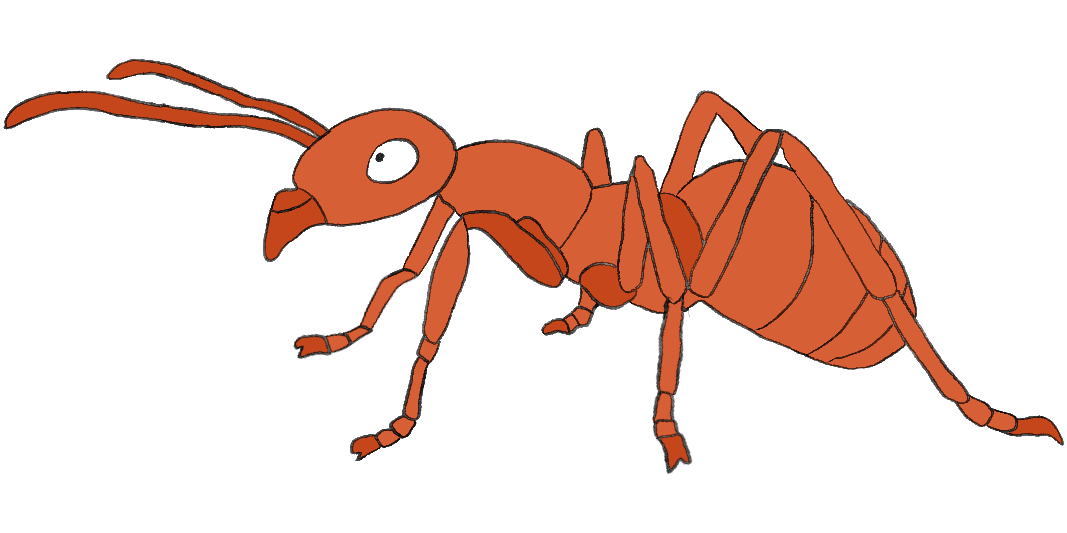
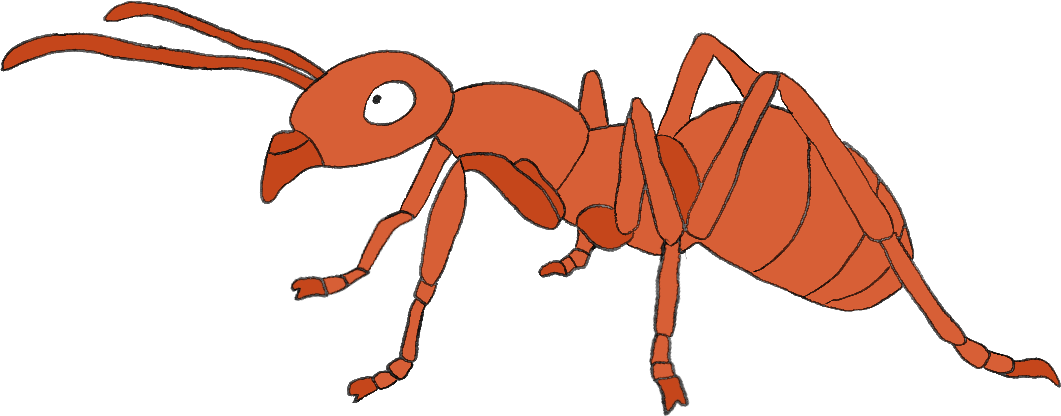
Fixing player assets and refining Macroquad usage - work in progress, does not compile yet.

Changed region(s): [[0.0, 0.0, 1.0, 1.0]]

diff --git a/src/player.rs b/src/player.rs
@@ -1,5 +1,6 @@
 use crate::cell::Cell;
 use macroquad::prelude::*;
+use quadgif::GifAnimation;
 
 #[derive(PartialEq)]
 enum Dir {
@@ -15,12 +16,14 @@ pub struct Player<const COLS: usize, const ROWS: usize> {
     vel: Vec2,
     acc_y: f32,
     jump: f32,
+    jumped: bool,
     player_speed: f32,
+    climb_speed: f32,
     cells: [[Cell; COLS]; ROWS],
     cell_size: f32,
     is_on_floor: bool,
-    jump_count: i32,
     direction: Dir,
+    climbing: bool,
 }
 
 impl<const COLS: usize, const ROWS: usize> Player<COLS, ROWS> {
@@ -38,25 +41,20 @@ impl<const COLS: usize, const ROWS: usize> Player<COLS, ROWS> {
             size: vec2(width, height),
             vel: vec2(0.0, 0.0),
             acc_y: gravity,
-            jump: 2.0,
+            jump: 0.9,
+            jumped: false,
             player_speed: 0.8,
+            climb_speed: 0.8,
             cells: cells,
             cell_size: cell_size,
             is_on_floor: false,
-            jump_count: 0,
             direction: Dir::Left,
+            climbing: false,
         }
     }
 
     pub fn update(&mut self) {
-        if (is_key_pressed(KeyCode::Space)
-            || is_key_pressed(KeyCode::W)
-            || is_key_pressed(KeyCode::Up))
-            && self.jump_count < 2
-        {
-            self.vel.y -= self.jump;
-            self.jump_count += 1;
-        }
+        self.climbing = false;
 
         self.vel.x = 0.0;
 
@@ -69,6 +67,7 @@ impl<const COLS: usize, const ROWS: usize> Player<COLS, ROWS> {
 
             self.direction = Dir::Left;
         }
+
         if is_key_down(KeyCode::D) || is_key_down(KeyCode::Right) {
             self.vel.x += self.player_speed;
             right_pressed = true;
@@ -88,18 +87,40 @@ impl<const COLS: usize, const ROWS: usize> Player<COLS, ROWS> {
             if self.vel.x > 0.0 {
                 self.pos.x = x - self.size.x;
 
-                // If right is pressed and the player is falling
                 if right_pressed && self.vel.y > 0.0 {
                     self.vel.y = 0.0;
+                }
+
+                if right_pressed {
+                    self.climbing = true;
                 }
             } else {
                 self.pos.x = x + width;
 
-                // If right is pressed and the player is falling
                 if left_pressed && self.vel.y > 0.0 {
                     self.vel.y = 0.0;
                 }
+
+                if left_pressed {
+                    self.climbing = true;
+                }
             }
+        }
+
+        if (is_key_pressed(KeyCode::Space)
+            || is_key_pressed(KeyCode::W)
+            || is_key_pressed(KeyCode::Up))
+            && !self.jumped
+        {
+            self.vel.y -= self.jump;
+            self.jumped = true;
+        }
+
+        if self.climbing
+            && (is_key_down(KeyCode::Space) || is_key_down(KeyCode::W) || is_key_down(KeyCode::Up))
+        {
+            self.direction = Dir::Up;
+            self.vel.y = -self.climb_speed;
         }
 
         self.vel.y += self.acc_y;
@@ -111,7 +132,7 @@ impl<const COLS: usize, const ROWS: usize> Player<COLS, ROWS> {
             if self.vel.y > 0.0 {
                 self.pos.y = y - self.size.y;
                 self.is_on_floor = true;
-                self.jump_count = 0;
+                self.jumped = false;
             } else {
                 self.pos.y = y + height;
             }
@@ -187,29 +208,38 @@ impl<const COLS: usize, const ROWS: usize> Player<COLS, ROWS> {
         None
     }
 
-    pub fn draw(&self, left: &Texture2D, right: &Texture2D) {
+    fn draw_tex(&self, tex: &Texture2D) {
+        draw_texture_ex(
+            &tex,
+            self.pos.x,
+            self.pos.y,
+            WHITE,
+            DrawTextureParams {
+                dest_size: Some(vec2(self.size.x, self.size.y)),
+                ..Default::default()
+            },
+        )
+    }
+
+    pub fn draw(
+        &self,
+        left: &Texture2D,
+        right: &Texture2D,
+        left_walk: &Texture2D,
+        right_walk: &Texture2D,
+        left_idle_climb: &Texture2D,
+       right_idle_climb: &Texture2D,
+       left_climb: &GifAnimation,
+       right_climb: &GifAnimation,
+
+    ),
+     {
         if self.direction == Dir::Left {
-            draw_texture_ex(
-                left,
-                self.pos.x,
-                self.pos.y,
-                WHITE,
-                DrawTextureParams {
-                    dest_size: Some(vec2(self.size.x, self.size.y)),
-                    ..Default::default()
-                },
-            )
-        } else {
-            draw_texture_ex(
-                right,
-                self.pos.x,
-                self.pos.y,
-                WHITE,
-                DrawTextureParams {
-                    dest_size: Some(vec2(self.size.x, self.size.y)),
-                    ..Default::default()
-                },
-            )
+            self.draw_tex(left);
+        } else if self.direction == Dir::Right {
+            self.draw_tex(right);
+        } else if self.direction == Dir::Up {
+            self.draw_tex(up);
         }
     }
 }

diff --git a/src/main.rs b/src/main.rs
@@ -60,8 +60,6 @@ async fn main() {
     let rock_tex = load_asset("rock.png").await;
     let bush_left_tex = load_asset("bush_left.png").await;
     let bush_right_tex = load_asset("bush_right.png").await;
-    let player_left_tex = load_asset("player_left.png").await;
-    let player_right_tex = load_asset("player_right.png").await;
 
     // Bundle the assets together with an Assets struct
     let assets = Assets::new(
@@ -79,6 +77,11 @@ async fn main() {
         bush_left_tex,
         bush_right_tex,
     );
+
+    let player_left_tex = load_asset("player_left.png").await;
+    let player_right_tex = load_asset("player_right.png").await;
+    let player_left_climb_tex = GifAnimation::load("player_left_climb.gif").await;
+    let player_right_climb_tex = GifAnimation::load("player_right_climb.gif").await;
 
     let ambiance = load_sound("ambiance.wav")
         .await
@@ -118,7 +121,7 @@ async fn main() {
         clear_background(DARKBROWN);
 
         maze_gen.draw(&assets, size);
-        player.draw(&player_left_tex, &player_right_tex);
+        player.draw();
 
         next_frame().await;
     }
